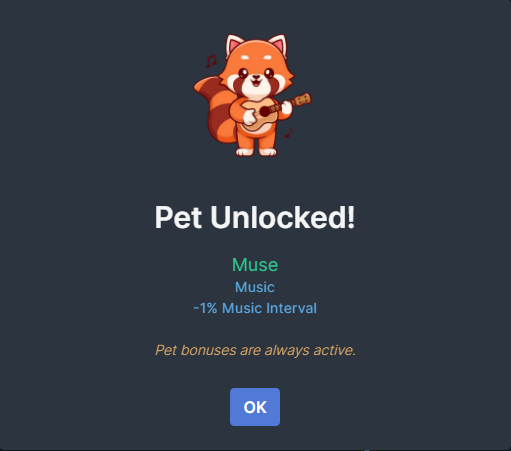
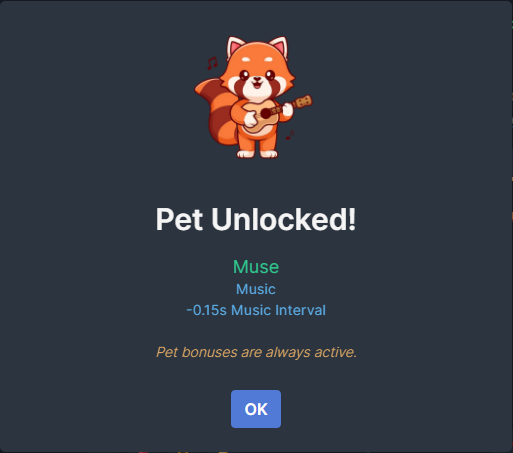
release 1.6.3 - fixed muse pet and concert pass drop rate

diff --git a/src/app/music/user-interface.ts b/src/app/music/user-interface.ts
@@ -20,7 +20,11 @@ export class UserInterface {
         return document.getElementById('bard-container');
     }
 
-    constructor(private readonly context: Modding.ModContext, private readonly music: Music) {}
+    constructor(
+        private readonly context: Modding.ModContext,
+        private readonly game: Game,
+        private readonly music: Music
+    ) {}
 
     public init() {
         this.context.onInterfaceAvailable(async () => {
@@ -29,15 +33,15 @@ export class UserInterface {
             this.modifySkillInfoClass(this.mainContainer);
 
             for (const instrument of this.music.actions.registeredObjects.values()) {
-                const component = InstrumentComponent(this.music, instrument, game);
+                const component = InstrumentComponent(this.music, instrument, this.game);
 
                 ui.create(component, this.instrumentsContainer);
 
                 this.instruments.set(instrument, component);
             }
 
-            this.bard1 = BardComponent(this.music, game);
-            this.bard2 = BardComponent(this.music, game);
+            this.bard1 = BardComponent(this.music);
+            this.bard2 = BardComponent(this.music);
 
             ui.create(this.bard1, this.bardContainer);
             ui.create(this.bard2, this.bardContainer);
@@ -46,7 +50,7 @@ export class UserInterface {
         this.context.patch(NotificationQueue, 'notify').replace(patch => {
             const concertPassId = 'mythMusic:Concert_Pass';
 
-            const notifications = game.combat.notifications.queue
+            const notifications = this.game.combat.notifications.queue
                 .map((notification, index) => ({ notification, index }))
                 .filter(
                     ({ notification }) =>
@@ -55,11 +59,11 @@ export class UserInterface {
                 .sort((a, b) => b.index - a.index);
 
             for (const { index } of notifications) {
-                const item = game.items.getObjectByID(concertPassId);
+                const item = this.game.items.getObjectByID(concertPassId);
 
                 if (item) {
                     imageNotify(item.media, 'Your Concert Pass has run out!', 'danger');
-                    game.combat.notifications.queue.splice(index, 1);
+                    this.game.combat.notifications.queue.splice(index, 1);
                 }
             }
 

diff --git a/src/app/township/township.ts b/src/app/township/township.ts
@@ -1,7 +1,7 @@
 export class MythTownship {
     private readonly itemType = ['Hat', 'Body', 'Leggings', 'Boots'];
 
-    constructor(private readonly context: Modding.ModContext) {}
+    constructor(private readonly context: Modding.ModContext, private readonly game: Game) {}
 
     public registerTraderItems() {
         this.context.gameData
@@ -55,22 +55,24 @@ export class MythTownship {
 
     private modifyTradeOrder() {
         // Switch order of trades so scroll of xp is first.
-        const planks = game.township.resources.getObjectByID('melvorF:Planks');
-        const trades = game.township.itemConversions.fromTownship.get(planks);
+        const planks = this.game.township.resources.getObjectByID('melvorF:Planks');
+        const trades = this.game.township.itemConversions.fromTownship.get(planks);
 
         const scrollOfMusicXP = trades.find(trade => trade.item.id === 'mythMusic:Music_Scroll_Of_XP');
 
         trades.splice(trades.indexOf(scrollOfMusicXP), 1);
         trades.splice(0, 0, scrollOfMusicXP);
 
-        game.township.itemConversions.fromTownship.set(planks, trades);
+        this.game.township.itemConversions.fromTownship.set(planks, trades);
     }
 
     private updateSkillingOutfitItemUpgrade(builder: Modding.GameDataPackageBuilder) {
         for (const type of this.itemType) {
             // Get the item upgrade from woodcutters, all outfits share the same item upgrade so this will modify
             // all of them.
-            const itemUpgrades = game.bank.itemUpgrades.get(game.items.getObjectByID(`melvorF:Woodcutters_${type}`));
+            const itemUpgrades = this.game.bank.itemUpgrades.get(
+                this.game.items.getObjectByID(`melvorF:Woodcutters_${type}`)
+            );
 
             if (!itemUpgrades?.length) {
                 return;
@@ -87,7 +89,7 @@ export class MythTownship {
             // so I don't need to think about all the little details for registration. Let Malc
             // deal with it.
             for (const item of itemUpgrade.rootItems) {
-                game.bank.itemUpgrades.delete(item);
+                this.game.bank.itemUpgrades.delete(item);
             }
 
             builder.itemUpgrades.add({

diff --git a/src/app/main.ts b/src/app/main.ts
@@ -11,7 +11,7 @@ declare global {
 }
 
 export class App {
-    constructor(private readonly context: Modding.ModContext) {}
+    constructor(private readonly context: Modding.ModContext, private readonly game: Game) {}
 
     public async init() {
         await this.context.loadTemplates('music/music.html');
@@ -22,7 +22,7 @@ export class App {
         this.patchEventManager();
         this.initModifiers();
 
-        const music = game.registerSkill(game.registeredNamespaces.getNamespace('mythMusic'), Music);
+        const music = this.game.registerSkill(this.game.registeredNamespaces.getNamespace('mythMusic'), Music);
 
         await this.context.gameData.addPackage('data.json');
 
@@ -34,7 +34,7 @@ export class App {
     private patchEventManager() {
         this.context.patch(Game, 'constructEventMatcher').after((_patch, data) => {
             if (this.isMusicEvent(data)) {
-                return new MusicActionEventMatcher(data, game);
+                return new MusicActionEventMatcher(data, this.game);
             }
         });
     }
@@ -52,13 +52,13 @@ export class App {
     }
 
     private initTownship() {
-        const township = new MythTownship(this.context);
+        const township = new MythTownship(this.context, this.game);
 
         township.registerTraderItems();
     }
 
     private initInterface(music: Music) {
-        const userInterface = new UserInterface(this.context, music);
+        const userInterface = new UserInterface(this.context, this.game, music);
 
         userInterface.init();
 

diff --git a/src/app/music/decoder/version-3.ts b/src/app/music/decoder/version-3.ts
@@ -3,7 +3,7 @@ import { HiredBard } from '../music.types';
 import { DecodeVersion } from './version.base';
 
 export class Version3 implements DecodeVersion {
-    constructor(private readonly music: Music) {}
+    constructor(private readonly game: Game, private readonly music: Music) {}
 
     public decode(reader: SaveWriter) {
         const version = reader.getUint32();
@@ -28,13 +28,13 @@ export class Version3 implements DecodeVersion {
             let socket: string | Item;
 
             if (reader.getBoolean()) {
-                socket = reader.getNamespacedObject(game.items);
+                socket = reader.getNamespacedObject(this.game.items);
             }
 
             let utility: string | Item;
 
             if (reader.getBoolean()) {
-                utility = reader.getNamespacedObject(game.items);
+                utility = reader.getNamespacedObject(this.game.items);
             }
 
             let hiredBard: HiredBard;

diff --git a/src/app/music/bard/bard.ts b/src/app/music/bard/bard.ts
@@ -4,7 +4,7 @@ import { BardModifier, HiredBard } from '../music.types';
 
 import './bard.scss';
 
-export function BardComponent(music: Music, game: Game) {
+export function BardComponent(music: Music) {
     return {
         $template: '#myth-music-bard',
         bard: undefined as HiredBard,
@@ -35,10 +35,7 @@ export function BardComponent(music: Music, game: Game) {
                 showCancelButton: false,
                 showDenyButton: false,
                 didOpen: popup => {
-                    ui.create(
-                        EquipmentComponent(music, game, bard),
-                        popup.querySelector('#myth-music-equipment-container')
-                    );
+                    ui.create(EquipmentComponent(music, bard), popup.querySelector('#myth-music-equipment-container'));
                 }
             });
         }

diff --git a/src/app/music/decoder/decoder.ts b/src/app/music/decoder/decoder.ts
@@ -5,11 +5,11 @@ import { Version2 } from './version-2';
 import { Version3 } from './version-3';
 
 export class Decoder {
-    constructor(private readonly music: Music, private readonly start: number) {}
+    constructor(private readonly game: Game, private readonly music: Music, private readonly start: number) {}
 
     public decode(reader: SaveWriter) {
         const saveVersions = [
-            this.loadSaveFactory(() => new Version3(this.music).decode(reader)),
+            this.loadSaveFactory(() => new Version3(this.game, this.music).decode(reader)),
             this.loadSaveFactory(() => new Version2(this.music).decode(reader)),
             this.loadSaveFactory(() => new Version1(this.music).decode(reader)),
             this.loadSaveFactory(() => new Version0(this.music).decode(reader))

diff --git a/src/app/music/music.ts b/src/app/music/music.ts
@@ -563,7 +563,7 @@ export class Music extends GatheringSkill<Instrument, MusicSkillData> {
     public decode(reader: SaveWriter, version: number): void {
         super.decode(reader, version);
 
-        const decoder = new Decoder(this, reader.byteOffset);
+        const decoder = new Decoder(this.game, this, reader.byteOffset);
 
         decoder.decode(reader);
     }

diff --git a/src/app/music/equipment/equipment.ts b/src/app/music/equipment/equipment.ts
@@ -11,7 +11,7 @@ enum State {
     Utility = 'utility'
 }
 
-export function EquipmentComponent(music: Music, game: Game, bard: HiredBard) {
+export function EquipmentComponent(music: Music, bard: HiredBard) {
     return {
         $template: '#myth-music-equipment',
         bard,

diff --git a/src/setup.ts b/src/setup.ts
@@ -1,6 +1,6 @@
 import { App } from './app/main';
 
 export async function setup(context: Modding.ModContext) {
-    const app = new App(context);
+    const app = new App(context, game);
     await app.init();
 }

diff --git a/README.md b/README.md
@@ -16,6 +16,10 @@ When designing this skill, my aims were to take pressure off early game gold, wh
 
 ## Change Log
 
+### 1.6.3
+* fixed concert pass halves dropping more often then intended
+* adjusted the Music pet, Muse, to provide a flat -0.15s Music Interval from -1% Music Interval
+
 ### 1.6.2
 * fixed message when the concert pass runs out to be more context specific
 
@@ -215,7 +219,7 @@ The shop sells an upgrade which unlocks a second bard slot. This upgrade require
 The shop sells item charges for a Concert Pass.
 * Purchase Cost: Concert Pass Half (A) + Concert Pass Half (B) + 10M GP
 * When equipped in the offhand and has charges, the concert pass will provide skill xp for the skills the instrument supports.
-* Drop rate for Concert Pass Halves is 0.015% or roughly equivalent to the Ancient Ring of Skill and Ancient Ring of Mastery drop chance from Fishing.
+* Drop rate for Concert Pass Halves is 0.00075% or roughly equivalent to the Ancient Ring of Skill and Ancient Ring of Mastery drop chance from Fishing with a special chance of 5%.
 
 ![Concert Pass](images/concert-pass.png)
 
